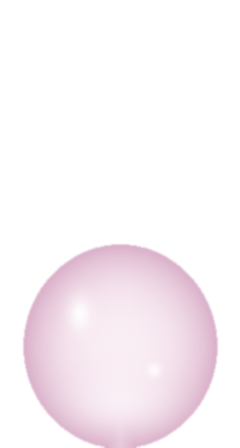
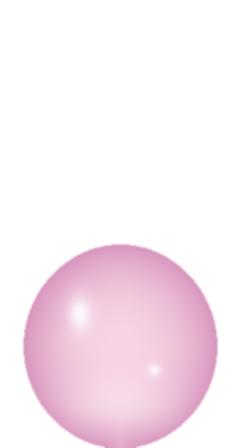
Prévia da loja: gota mais rosada e leitosa; produto 3 mais próximo
Claude-Session: https://claude.ai/code/session_01JWzVUcDYF2pQC29xjZEmTi

Changed region(s): [[0.0875, 0.5312, 0.9042, 1.0]]

diff --git a/loja-previa/index.html b/loja-previa/index.html
@@ -1,3 +1,3 @@
-<!doctype html><html lang="pt-BR"><head><meta charset="UTF-8"><meta name="viewport" content="width=device-width,initial-scale=1"><title>SALM Skin</title><link rel="stylesheet" href="style.css"><link rel="stylesheet" href="loja/store.css?v=pingo-largo-mao-15"></head><body><div class="preview-flag">PRÉVIA DA LOJA · em aprovação pela cliente · nenhum pedido é feito de verdade</div><header><a href="index.html" aria-label="SALM Skin início"><img src="../assets/wordmark.png" alt="SALM Skin"></a><nav><a href="#inicio">INÍCIO</a><a href="#serum">COMPRAR</a><a href="https://salmskin.lojavirtualnuvem.com.br/politica-de-privacidade">POLÍTICA DE PRIVACIDADE</a></nav><div class="header-right"><a class="shop" href="https://salmskin.lojavirtualnuvem.com.br/account/login">ACESSE SUA CONTA</a><a class="cart-link" href="carrinho.html" aria-label="Carrinho"><svg viewBox="0 0 24 24" aria-hidden="true"><path d="M5 8h14l-1.2 11.2a2 2 0 0 1-2 1.8H8.2a2 2 0 0 1-2-1.8Z"/><path d="M9 8V6a3 3 0 0 1 6 0v2"/></svg><b data-cart-count hidden>0</b>CARRINHO</a></div></header><main><section class="hero" id="inicio"><img class="hero-half-symbol" src="../assets/symbol.png" alt="" aria-hidden="true"><i class="hero-watermark" aria-hidden="true"></i><div class="intro"><h1>Sérum Facial<br><em>PDRN Noturno</em></h1><p class="lead">O <img class="brand-inline" src="../assets/wordmark.png" alt="SALM Skin"> Sérum Facial PDRN Noturno foi desenvolvido com tecnologia avançada para promover uma renovação intensa da pele durante o período de descanso. Sua fórmula inteligente combina ativos nanoencapsulados de alta performance, que garantem maior absorção, eficácia e resultados visíveis em curto prazo.</p><a class="button" href="#serum">O SÉRUM</a></div><div class="liquid-photo hero-photo"><div class="portrait-stage"><img src="../assets/hero-serum-transparente-v4.webp" data-desktop="../assets/hero-banner-desktop.webp" data-mobile="../assets/hero-serum-transparente-v4.webp" alt="Modelo com conta-gotas e frasco SALM Skin"><i class="serum-drop"></i><i class="serum-drop second"></i></div></div></section><section class="section benefits benefits-orbit"><div class="benefits-composition"><div class="benefits-side"><article class="benefit-point"><svg class="line-icon icon-std" viewBox="0 0 24 24" aria-hidden="true"><path d="M20 14.5A8.5 8.5 0 0 1 9.5 4 8.5 8.5 0 1 0 20 14.5Z"/><path d="M17 3v4M15 5h4"/></svg>Estimula a regeneração noturna da pele</article><article class="benefit-point"><svg class="line-icon icon-std" viewBox="0 0 24 24" aria-hidden="true"><path d="M12 3v18M8 7l4-4 4 4M8 17l4 4 4-4"/><path d="M5 12h14"/></svg>Melhora a firmeza e elasticidade</article><article class="benefit-point"><svg class="line-icon icon-std" viewBox="0 0 24 24" aria-hidden="true"><path d="M3 7c3-2 6 2 9 0s6-2 9 0"/><path d="M3 12c3-1.3 6 1.3 9 0s6-1.3 9 0"/><path d="M3 17h18"/></svg>Reduz linhas finas e sinais de fadiga</article><article class="benefit-point"><svg class="line-icon icon-std" viewBox="0 0 24 24" aria-hidden="true"><path d="M12 3c-3 4.5-6 8-6 11a6 6 0 0 0 12 0c0-3-3-6.5-6-11Z"/><path d="M9.5 14.5a2.5 2.5 0 0 0 2.5 2.5"/></svg>Proporciona hidratação intensa e duradoura</article><article class="benefit-point"><svg class="line-icon icon-std" viewBox="0 0 24 24" aria-hidden="true"><circle cx="12" cy="12" r="4"/><path d="M12 2v2.5M12 19.5V22M2 12h2.5M19.5 12H22M4.9 4.9l1.8 1.8M17.3 17.3l1.8 1.8M4.9 19.1l1.8-1.8M17.3 6.7l1.8-1.8"/></svg>Uniformiza o tom e ilumina a pele</article><article class="benefit-point"><svg class="line-icon icon-std" viewBox="0 0 24 24" aria-hidden="true"><path d="M12 4v16M8 20h8M5 7h14"/><path d="M5 7l-2.5 6a2.5 2.5 0 0 0 5 0Z"/><path d="M19 7l-2.5 6a2.5 2.5 0 0 0 5 0Z"/></svg>Controla a oleosidade sem ressecar</article><article class="benefit-point"><svg class="line-icon icon-std" viewBox="0 0 24 24" aria-hidden="true"><path d="M20 4C11 4 5 9 5 17v3"/><path d="M20 4c0 9-5 14-13 14"/><path d="M5 17 15 9"/></svg>Textura leve, rápida absorção e toque sedoso</article></div><div class="benefits-serum"><img class="benefits-photo" src="../assets/ritual-transparent.png" alt="Gota do Sérum Facial SALM Skin PDRN caindo no frasco"></div></div></section><section class="section catalog" id="serum"><div class="catalog-grid"><article><img class="catalog-image img-caixa" src="../assets/produto-caixa-centro.webp" alt="Starter Glow: modelo segurando a caixa do Sérum SALM Skin"><h3>Starter Glow</h3><p class="cat-desc">Sérum Facial SALM Skin<br>PDRN · 1 mês<br>30 dias de tratamento</p><p class="cat-old"><del>R$259,00</del> <span>27% OFF</span></p><p class="cat-price"><strong>R$189,00</strong></p><details class="plan-details"><summary>Saiba mais</summary><p>Ideal para quem deseja iniciar sua jornada de cuidados com a SALM Skin. Este frasco é o ponto de partida para adaptar sua pele à tecnologia nanoencapsulada e sentir os primeiros sinais de renovação e viço.</p></details><a class="button" href="produto.html?p=starter-glow">VER PRODUTO</a><button class="btn-dark add-btn" data-add="starter-glow">ADICIONAR AO CARRINHO</button></article><article><img class="catalog-image" src="../assets/produto-sorriso-rosa.webp" alt="Advanced Care"><h3>Advanced Care</h3><p class="cat-desc">Sérum Facial SALM Skin<br>PDRN · 2 meses<br>60 dias de tratamento</p><p class="cat-old"><del>R$529,00</del> <span>32% OFF</span></p><p class="cat-price"><strong>R$359,00</strong></p><details class="plan-details"><summary>Saiba mais</summary><p>Quando o cuidado vira rotina. Este kit com 2 séruns é focado em quem já busca resultados mais consistentes na uniformização do tom e na firmeza da pele. A constância potencializa a ação regeneradora do Nano PDRN.</p></details><a class="button" href="produto.html?p=advanced-care">VER PRODUTO</a><button class="btn-dark add-btn" data-add="advanced-care">ADICIONAR AO CARRINHO</button></article><article><img class="catalog-image img-sacola" src="../assets/produto-sacola-rosa-v2.webp" alt="Pro Skin Treatment: modelo com a sacola SALM Skin"><h3>Pro Skin Treatment</h3><p class="cat-desc">Sérum Facial SALM Skin<br>PDRN · 3 meses<br>90 dias de tratamento</p><p class="cat-old"><del>R$779,00</del> <span>35% OFF</span></p><p class="cat-price"><strong>R$509,00</strong></p><details class="plan-details"><summary>Saiba mais</summary><p>BÔNUS EXCLUSIVO: Frete Grátis + Mini Guia Digital &quot;Rotina de Pele SALM Skin&quot;.<br><br>O protocolo recomendado para a transformação real da sua pele. Três meses é o ciclo ideal para que os ativos nanoencapsulados atuem profundamente em todas as camadas, entregando o máximo de regeneração, clareamento e rejuvenescimento.</p></details><a class="button" href="produto.html?p=pro-skin">VER PRODUTO</a><button class="btn-dark add-btn" data-add="pro-skin">ADICIONAR AO CARRINHO</button></article></div></section><section class="liquid-section serum-story"><div class="faithful-product"><img src="../assets/serum-recorte.png" alt="Embalagem original do Sérum Facial SALM Skin PDRN"></div><div class="liquid-copy"><h2>Sérum Facial<br><em><img class="brand-inline" src="../assets/wordmark.png" alt="SALM Skin"> PDRN</em></h2><p>Regeneração Profunda Enquanto Você Dorme</p><p>Descubra o poder da renovação intensa com o Sérum Facial <img class="brand-inline" src="../assets/wordmark.png" alt="SALM Skin"> PDRN, desenvolvido com tecnologia de ponta para transformar sua pele durante o descanso. Sua fórmula avançada conta com ativos nanoencapsulados que garantem absorção máxima e resultados visíveis em pouco tempo.</p></div></section><section class="formula section"><svg width="0" height="0" style="position:absolute" aria-hidden="true"><defs><linearGradient id="pinkGlass" x1="0" y1="0" x2="1" y2="1"><stop offset="0" stop-color="#fbe6f0" stop-opacity=".9"/><stop offset=".55" stop-color="#e7a9c6" stop-opacity=".6"/><stop offset="1" stop-color="#c98aa9" stop-opacity=".75"/></linearGradient><linearGradient id="pinkLine" gradientUnits="userSpaceOnUse" x1="2" y1="2" x2="22" y2="22"><stop offset="0" stop-color="#e3a6c2"/><stop offset=".5" stop-color="#b9789a"/><stop offset="1" stop-color="#8c5a73"/></linearGradient></defs></svg><div class="ingredients"><article><span class="glass-tile"><svg class="active-icon icon-std" viewBox="0 0 24 24" aria-hidden="true"><circle cx="12" cy="12" r="3.4"/><circle cx="5" cy="5.5" r="1.7"/><circle cx="19" cy="5.5" r="1.7"/><circle cx="5" cy="18.5" r="1.7"/><circle cx="19" cy="18.5" r="1.7"/><path d="M6.3 6.8l3.2 3M17.7 6.8l-3.2 3M6.3 17.2l3.2-3M17.7 17.2l-3.2-3"/></svg></span><h3>Nano PDRN</h3><p>Estimula a renovação celular e a produção de colágeno, promovendo a reparação dos tecidos. Reduz linhas finas e melhora a firmeza da pele.</p></article><article><span class="glass-tile"><svg class="active-icon icon-std" viewBox="0 0 24 24" aria-hidden="true"><path d="M12 3c-3 4.5-6 8-6 11a6 6 0 0 0 12 0c0-3-3-6.5-6-11Z"/><path d="M9.5 14.5a2.5 2.5 0 0 0 2.5 2.5"/></svg></span><h3>Ácido Hialurônico</h3><p>Proporciona hidratação profunda e prolongada, retendo a umidade natural da pele.</p></article><article><span class="glass-tile"><svg class="active-icon icon-std" viewBox="0 0 24 24" aria-hidden="true"><path d="M12 3l2.2 6.8L21 12l-6.8 2.2L12 21l-2.2-6.8L3 12l6.8-2.2Z"/></svg></span><h3>Nano Niacinamida (Vitamina B3)</h3><p>Uniformiza o tom da pele, reduz manchas e controla a oleosidade.</p></article></div></section><section class="section label-info"><p>O Sérum Facial SALM Skin é um potente hidratante enriquecido com ativos que proporcionam uma hidratação profunda, deixando uma sensação de suavidade irresistível.</p><p>Tratamento noturno · 30 ml · Dermatologicamente testado</p><details><summary>Composição</summary><p>Aqua, Xanthan Gum, Panthenol, Niacinamide, Propylene Glycol, Diazolidinyl Urea, Parfum, Lecithin, Sodium Hyaluronate, Sodium DNA, Caprylic/Capric Triglyceride, Phenoxyethanol, Polysorbate 80, Sorbitan Stearate, Caprylyl Glycol, PCA Ethyl Cocoyl Arginate, Benzyl Salicylate, Limonene, Iodopropynyl Butylcarbamate, Cyanocobalamin, Lactic Acid.</p></details><details><summary>Precauções</summary><p>Mantenha fora do alcance das crianças, em local fresco e protegido dos raios solares. Caso o produto entre em contato com os olhos, lave imediatamente com água em abundância. No caso de irritação, suspenda o uso e, se necessário, procure orientação médica. Uso externo.</p></details></section></main><footer><img class="footer-symbol" src="../assets/symbol.png" alt="Símbolo SALM Skin"><img src="../assets/wordmark.png" alt="SALM Skin"><div class="creator-credit">© 2026 SALM Skin · Criado por <a href="https://www.instagram.com/designer.alannedias/" target="_blank" rel="noopener noreferrer">@designer.alannedias</a></div></footer><script src="app.js?v=frasco-mais-alto-11"></script><script src="loja/store.js"></script></body></html>
+<!doctype html><html lang="pt-BR"><head><meta charset="UTF-8"><meta name="viewport" content="width=device-width,initial-scale=1"><title>SALM Skin</title><link rel="stylesheet" href="style.css"><link rel="stylesheet" href="loja/store.css?v=pingo-largo-mao-15"></head><body><div class="preview-flag">PRÉVIA DA LOJA · em aprovação pela cliente · nenhum pedido é feito de verdade</div><header><a href="index.html" aria-label="SALM Skin início"><img src="../assets/wordmark.png" alt="SALM Skin"></a><nav><a href="#inicio">INÍCIO</a><a href="#serum">COMPRAR</a><a href="https://salmskin.lojavirtualnuvem.com.br/politica-de-privacidade">POLÍTICA DE PRIVACIDADE</a></nav><div class="header-right"><a class="shop" href="https://salmskin.lojavirtualnuvem.com.br/account/login">ACESSE SUA CONTA</a><a class="cart-link" href="carrinho.html" aria-label="Carrinho"><svg viewBox="0 0 24 24" aria-hidden="true"><path d="M5 8h14l-1.2 11.2a2 2 0 0 1-2 1.8H8.2a2 2 0 0 1-2-1.8Z"/><path d="M9 8V6a3 3 0 0 1 6 0v2"/></svg><b data-cart-count hidden>0</b>CARRINHO</a></div></header><main><section class="hero" id="inicio"><img class="hero-half-symbol" src="../assets/symbol.png" alt="" aria-hidden="true"><i class="hero-watermark" aria-hidden="true"></i><div class="intro"><h1>Sérum Facial<br><em>PDRN Noturno</em></h1><p class="lead">O <img class="brand-inline" src="../assets/wordmark.png" alt="SALM Skin"> Sérum Facial PDRN Noturno foi desenvolvido com tecnologia avançada para promover uma renovação intensa da pele durante o período de descanso. Sua fórmula inteligente combina ativos nanoencapsulados de alta performance, que garantem maior absorção, eficácia e resultados visíveis em curto prazo.</p><a class="button" href="#serum">O SÉRUM</a></div><div class="liquid-photo hero-photo"><div class="portrait-stage"><img src="../assets/hero-serum-transparente-v4.webp" data-desktop="../assets/hero-banner-desktop.webp" data-mobile="../assets/hero-serum-transparente-v4.webp" alt="Modelo com conta-gotas e frasco SALM Skin"><i class="serum-drop"></i><i class="serum-drop second"></i></div></div></section><section class="section benefits benefits-orbit"><div class="benefits-composition"><div class="benefits-side"><article class="benefit-point"><svg class="line-icon icon-std" viewBox="0 0 24 24" aria-hidden="true"><path d="M20 14.5A8.5 8.5 0 0 1 9.5 4 8.5 8.5 0 1 0 20 14.5Z"/><path d="M17 3v4M15 5h4"/></svg>Estimula a regeneração noturna da pele</article><article class="benefit-point"><svg class="line-icon icon-std" viewBox="0 0 24 24" aria-hidden="true"><path d="M12 3v18M8 7l4-4 4 4M8 17l4 4 4-4"/><path d="M5 12h14"/></svg>Melhora a firmeza e elasticidade</article><article class="benefit-point"><svg class="line-icon icon-std" viewBox="0 0 24 24" aria-hidden="true"><path d="M3 7c3-2 6 2 9 0s6-2 9 0"/><path d="M3 12c3-1.3 6 1.3 9 0s6-1.3 9 0"/><path d="M3 17h18"/></svg>Reduz linhas finas e sinais de fadiga</article><article class="benefit-point"><svg class="line-icon icon-std" viewBox="0 0 24 24" aria-hidden="true"><path d="M12 3c-3 4.5-6 8-6 11a6 6 0 0 0 12 0c0-3-3-6.5-6-11Z"/><path d="M9.5 14.5a2.5 2.5 0 0 0 2.5 2.5"/></svg>Proporciona hidratação intensa e duradoura</article><article class="benefit-point"><svg class="line-icon icon-std" viewBox="0 0 24 24" aria-hidden="true"><circle cx="12" cy="12" r="4"/><path d="M12 2v2.5M12 19.5V22M2 12h2.5M19.5 12H22M4.9 4.9l1.8 1.8M17.3 17.3l1.8 1.8M4.9 19.1l1.8-1.8M17.3 6.7l1.8-1.8"/></svg>Uniformiza o tom e ilumina a pele</article><article class="benefit-point"><svg class="line-icon icon-std" viewBox="0 0 24 24" aria-hidden="true"><path d="M12 4v16M8 20h8M5 7h14"/><path d="M5 7l-2.5 6a2.5 2.5 0 0 0 5 0Z"/><path d="M19 7l-2.5 6a2.5 2.5 0 0 0 5 0Z"/></svg>Controla a oleosidade sem ressecar</article><article class="benefit-point"><svg class="line-icon icon-std" viewBox="0 0 24 24" aria-hidden="true"><path d="M20 4C11 4 5 9 5 17v3"/><path d="M20 4c0 9-5 14-13 14"/><path d="M5 17 15 9"/></svg>Textura leve, rápida absorção e toque sedoso</article></div><div class="benefits-serum"><img class="benefits-photo" src="../assets/ritual-transparent.png" alt="Gota do Sérum Facial SALM Skin PDRN caindo no frasco"></div></div></section><section class="section catalog" id="serum"><div class="catalog-grid"><article><img class="catalog-image img-caixa" src="../assets/produto-caixa-centro.webp" alt="Starter Glow: modelo segurando a caixa do Sérum SALM Skin"><h3>Starter Glow</h3><p class="cat-desc">Sérum Facial SALM Skin<br>PDRN · 1 mês<br>30 dias de tratamento</p><p class="cat-old"><del>R$259,00</del> <span>27% OFF</span></p><p class="cat-price"><strong>R$189,00</strong></p><details class="plan-details"><summary>Saiba mais</summary><p>Ideal para quem deseja iniciar sua jornada de cuidados com a SALM Skin. Este frasco é o ponto de partida para adaptar sua pele à tecnologia nanoencapsulada e sentir os primeiros sinais de renovação e viço.</p></details><a class="button" href="produto.html?p=starter-glow">VER PRODUTO</a><button class="btn-dark add-btn" data-add="starter-glow">ADICIONAR AO CARRINHO</button></article><article><img class="catalog-image" src="../assets/produto-sorriso-rosa.webp" alt="Advanced Care"><h3>Advanced Care</h3><p class="cat-desc">Sérum Facial SALM Skin<br>PDRN · 2 meses<br>60 dias de tratamento</p><p class="cat-old"><del>R$529,00</del> <span>32% OFF</span></p><p class="cat-price"><strong>R$359,00</strong></p><details class="plan-details"><summary>Saiba mais</summary><p>Quando o cuidado vira rotina. Este kit com 2 séruns é focado em quem já busca resultados mais consistentes na uniformização do tom e na firmeza da pele. A constância potencializa a ação regeneradora do Nano PDRN.</p></details><a class="button" href="produto.html?p=advanced-care">VER PRODUTO</a><button class="btn-dark add-btn" data-add="advanced-care">ADICIONAR AO CARRINHO</button></article><article><img class="catalog-image img-sacola" src="../assets/produto-sacola-perto.webp" alt="Pro Skin Treatment: modelo com a sacola SALM Skin"><h3>Pro Skin Treatment</h3><p class="cat-desc">Sérum Facial SALM Skin<br>PDRN · 3 meses<br>90 dias de tratamento</p><p class="cat-old"><del>R$779,00</del> <span>35% OFF</span></p><p class="cat-price"><strong>R$509,00</strong></p><details class="plan-details"><summary>Saiba mais</summary><p>BÔNUS EXCLUSIVO: Frete Grátis + Mini Guia Digital &quot;Rotina de Pele SALM Skin&quot;.<br><br>O protocolo recomendado para a transformação real da sua pele. Três meses é o ciclo ideal para que os ativos nanoencapsulados atuem profundamente em todas as camadas, entregando o máximo de regeneração, clareamento e rejuvenescimento.</p></details><a class="button" href="produto.html?p=pro-skin">VER PRODUTO</a><button class="btn-dark add-btn" data-add="pro-skin">ADICIONAR AO CARRINHO</button></article></div></section><section class="liquid-section serum-story"><div class="faithful-product"><img src="../assets/serum-recorte.png" alt="Embalagem original do Sérum Facial SALM Skin PDRN"></div><div class="liquid-copy"><h2>Sérum Facial<br><em><img class="brand-inline" src="../assets/wordmark.png" alt="SALM Skin"> PDRN</em></h2><p>Regeneração Profunda Enquanto Você Dorme</p><p>Descubra o poder da renovação intensa com o Sérum Facial <img class="brand-inline" src="../assets/wordmark.png" alt="SALM Skin"> PDRN, desenvolvido com tecnologia de ponta para transformar sua pele durante o descanso. Sua fórmula avançada conta com ativos nanoencapsulados que garantem absorção máxima e resultados visíveis em pouco tempo.</p></div></section><section class="formula section"><svg width="0" height="0" style="position:absolute" aria-hidden="true"><defs><linearGradient id="pinkGlass" x1="0" y1="0" x2="1" y2="1"><stop offset="0" stop-color="#fbe6f0" stop-opacity=".9"/><stop offset=".55" stop-color="#e7a9c6" stop-opacity=".6"/><stop offset="1" stop-color="#c98aa9" stop-opacity=".75"/></linearGradient><linearGradient id="pinkLine" gradientUnits="userSpaceOnUse" x1="2" y1="2" x2="22" y2="22"><stop offset="0" stop-color="#e3a6c2"/><stop offset=".5" stop-color="#b9789a"/><stop offset="1" stop-color="#8c5a73"/></linearGradient></defs></svg><div class="ingredients"><article><span class="glass-tile"><svg class="active-icon icon-std" viewBox="0 0 24 24" aria-hidden="true"><circle cx="12" cy="12" r="3.4"/><circle cx="5" cy="5.5" r="1.7"/><circle cx="19" cy="5.5" r="1.7"/><circle cx="5" cy="18.5" r="1.7"/><circle cx="19" cy="18.5" r="1.7"/><path d="M6.3 6.8l3.2 3M17.7 6.8l-3.2 3M6.3 17.2l3.2-3M17.7 17.2l-3.2-3"/></svg></span><h3>Nano PDRN</h3><p>Estimula a renovação celular e a produção de colágeno, promovendo a reparação dos tecidos. Reduz linhas finas e melhora a firmeza da pele.</p></article><article><span class="glass-tile"><svg class="active-icon icon-std" viewBox="0 0 24 24" aria-hidden="true"><path d="M12 3c-3 4.5-6 8-6 11a6 6 0 0 0 12 0c0-3-3-6.5-6-11Z"/><path d="M9.5 14.5a2.5 2.5 0 0 0 2.5 2.5"/></svg></span><h3>Ácido Hialurônico</h3><p>Proporciona hidratação profunda e prolongada, retendo a umidade natural da pele.</p></article><article><span class="glass-tile"><svg class="active-icon icon-std" viewBox="0 0 24 24" aria-hidden="true"><path d="M12 3l2.2 6.8L21 12l-6.8 2.2L12 21l-2.2-6.8L3 12l6.8-2.2Z"/></svg></span><h3>Nano Niacinamida (Vitamina B3)</h3><p>Uniformiza o tom da pele, reduz manchas e controla a oleosidade.</p></article></div></section><section class="section label-info"><p>O Sérum Facial SALM Skin é um potente hidratante enriquecido com ativos que proporcionam uma hidratação profunda, deixando uma sensação de suavidade irresistível.</p><p>Tratamento noturno · 30 ml · Dermatologicamente testado</p><details><summary>Composição</summary><p>Aqua, Xanthan Gum, Panthenol, Niacinamide, Propylene Glycol, Diazolidinyl Urea, Parfum, Lecithin, Sodium Hyaluronate, Sodium DNA, Caprylic/Capric Triglyceride, Phenoxyethanol, Polysorbate 80, Sorbitan Stearate, Caprylyl Glycol, PCA Ethyl Cocoyl Arginate, Benzyl Salicylate, Limonene, Iodopropynyl Butylcarbamate, Cyanocobalamin, Lactic Acid.</p></details><details><summary>Precauções</summary><p>Mantenha fora do alcance das crianças, em local fresco e protegido dos raios solares. Caso o produto entre em contato com os olhos, lave imediatamente com água em abundância. No caso de irritação, suspenda o uso e, se necessário, procure orientação médica. Uso externo.</p></details></section></main><footer><img class="footer-symbol" src="../assets/symbol.png" alt="Símbolo SALM Skin"><img src="../assets/wordmark.png" alt="SALM Skin"><div class="creator-credit">© 2026 SALM Skin · Criado por <a href="https://www.instagram.com/designer.alannedias/" target="_blank" rel="noopener noreferrer">@designer.alannedias</a></div></footer><script src="app.js?v=frasco-mais-alto-11"></script><script src="loja/store.js"></script></body></html>
 
 

diff --git a/loja-previa/loja/store.js b/loja-previa/loja/store.js
@@ -8,7 +8,7 @@
     'advanced-care':{id:'advanced-care',nome:'Advanced Care',meses:2,dias:60,de:529,por:359,off:'32% OFF',img:'../assets/produto-sorriso-rosa.webp',
       nuvem:NUVEM+'/produtos/serum-facial-salm-skin-pdrn-copia/',
       texto:'Quando o cuidado vira rotina. Este kit com 2 séruns é focado em quem já busca resultados mais consistentes na uniformização do tom e na firmeza da pele. A constância potencializa a ação regeneradora do Nano PDRN.'},
-    'pro-skin':{id:'pro-skin',nome:'Pro Skin Treatment',meses:3,dias:90,de:779,por:509,off:'35% OFF',img:'../assets/produto-sacola-rosa-v2.webp',
+    'pro-skin':{id:'pro-skin',nome:'Pro Skin Treatment',meses:3,dias:90,de:779,por:509,off:'35% OFF',img:'../assets/produto-sacola-perto.webp',
       nuvem:NUVEM+'/produtos/serum-facial-salm-skin-pdrn-copia1/',
       bonus:'BÔNUS EXCLUSIVO: Frete Grátis + Mini Guia Digital "Rotina de Pele SALM Skin".',
       texto:'O protocolo recomendado para a transformação real da sua pele. Três meses é o ciclo ideal para que os ativos nanoencapsulados atuem profundamente em todas as camadas, entregando o máximo de regeneração, clareamento e rejuvenescimento.'}

diff --git a/loja-previa/loja/store.css b/loja-previa/loja/store.css
@@ -179,4 +179,4 @@ body .hero .hero-photo .portrait-stage .serum-drop:not(.second)::after{backgroun
 83%{top:calc(var(--drip-end) - var(--drip-width,16px)*2.9);opacity:0;transform:translateX(-50%) scale(1.15,.55)}
 100%{top:calc(var(--drip-end) - var(--drip-width,16px)*2.9);opacity:0}}
 @media(prefers-reduced-motion:reduce){body .hero .hero-photo .portrait-stage .serum-drop{animation:none!important;opacity:0!important}}
-.catalog-grid>article .catalog-image.img-caixa{object-position:50% 50%!important}
+.catalog-grid>article .catalog-image.img-caixa{object-position:50% 50%!important}.catalog-grid>article .catalog-image.img-sacola{object-position:50% 50%!important}body .hero .hero-photo .portrait-stage .serum-drop.second{display:none!important}
